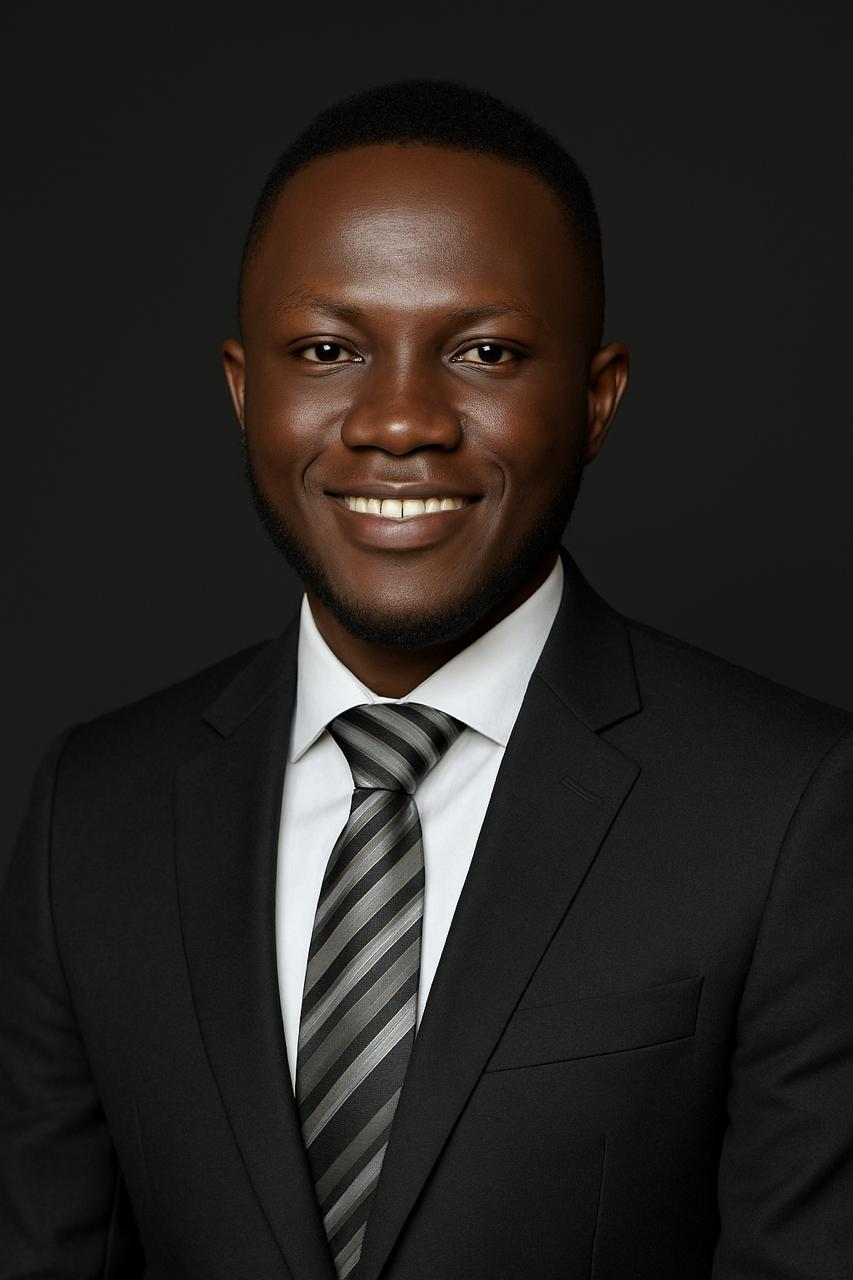
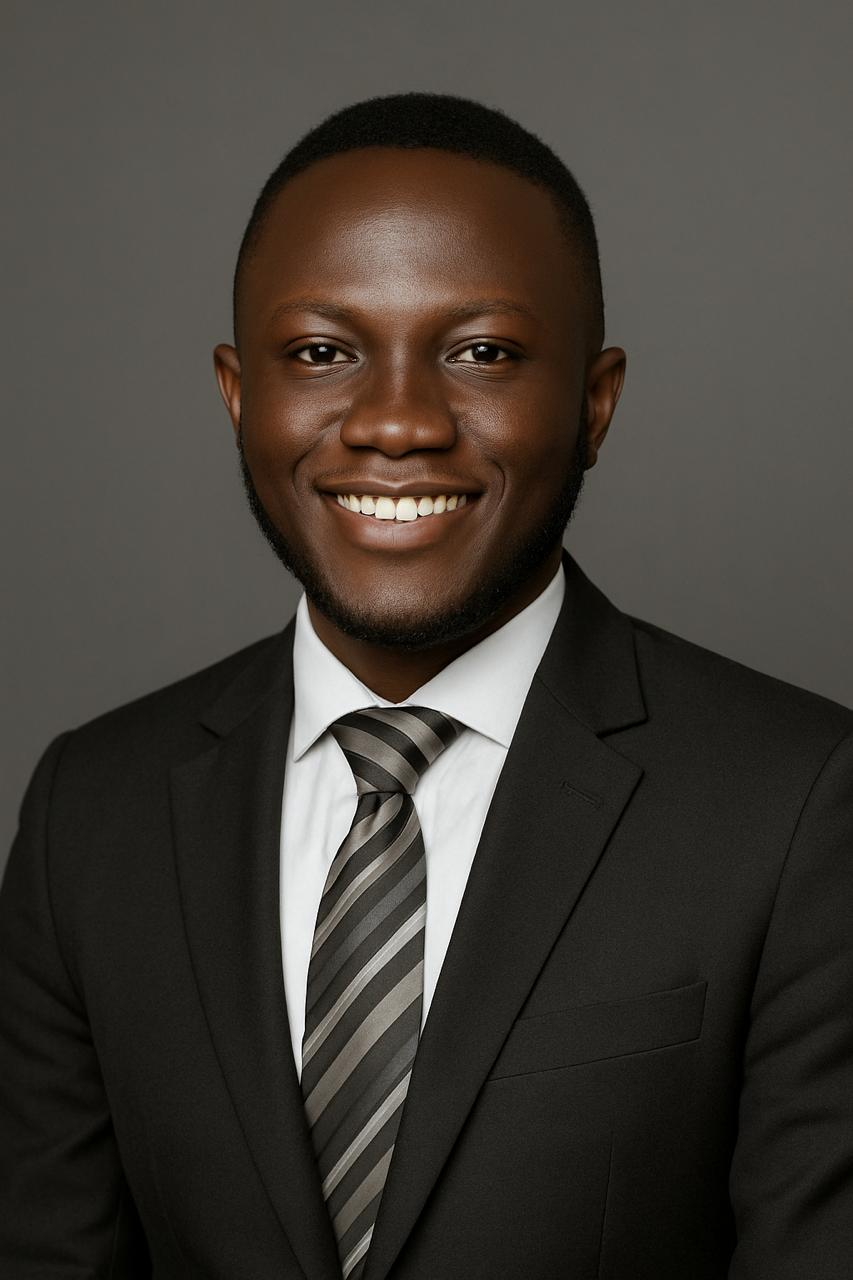
refactor: updated teams

diff --git a/src/lib/constants.ts b/src/lib/constants.ts
@@ -80,18 +80,6 @@ export const team = [
       "As Co-Founder and CEO of InfiniCity Labs, Andrews Danyo shapes the company's vision for safer, smarter mobility. He directs strategy, investment, and product roadmaps while mentoring a cross-functional team of engineers and data scientists who convert cutting-edge research in computer vision and machine reasoning into deployable tools for cities and transport agencies. Under his guidance, InfiniCity's platforms deliver real-time insights on traffic flow, infrastructure health, and road-user behavior, thereby empowering clients to move from reactive traffic management to proactive, data-driven decision-making.",
       "Andrews earned a bachelor's degree in Civil Engineering and a master's degree in Construction Management, both from Kwame Nkrumah University of Science and Technology, as well as a master's degree in Artificial Intelligence and Data Science from the University of Hull in the UK.",
     ],
-    // image: "",
-    education: [
-      "M.S. Artificial Intelligence & Data Science - University of Hull, UK",
-      "M.S. Construction Management - KNUST",
-      "B.S. Civil Engineering - KNUST",
-    ],
-    expertise: [
-      "Strategic Leadership",
-      "Computer Vision",
-      "Traffic Management",
-      "AI Product Development",
-    ],
   },
   {
     id: "Armstrong",
@@ -103,16 +91,6 @@ export const team = [
       "As President of InfiniCity Labs, Armstrong oversees the company's strategic and financial performance, guiding research, product development, and market expansion across all InfiniCity entities.",
       "For more than eight years, Armstrong has driven innovation in intelligent transportation systems, delivering computer-vision- and machine-reasoning-based products that transform mobility analytics and traffic management. Widely regarded as a thought leader in transportation AI, he steers InfiniCity Labs' strategic direction and corporate growth with a deep understanding of industry trends.",
       "Armstrong holds a Ph.D. in Transportation Engineering and has led research programs in both academic and industrial settings throughout North America and West Africa. Before co-founding InfiniCity Labs, he served as a transportation data scientist, architecting AI solutions that enhance roadway safety and operational efficiency.",
-    ],
-    education: [
-      "Ph.D. Transportation Engineering",
-      "Research Programs - North America & West Africa",
-    ],
-    expertise: [
-      "Transportation AI",
-      "Strategic Planning",
-      "Research Leadership",
-      "Market Expansion",
     ],
   },
   {
@@ -142,21 +120,12 @@ export const team = [
     id: "Blessing",
     name: "Blessing Agyei Kyem",
     href: "/team#blessing",
-    image: "/blessing.jpeg",
+    image: "/blessing.png",
     position: "Chief Technology Officer",
     bio: [
-      "As Chief Technology Officer at InfiniCity Labs, Blessing Agyei Kyem leads the technical vision and architecture of our cutting-edge AI platforms. With deep expertise in software engineering and system design, he oversees the development of scalable solutions that power our traffic management and infrastructure monitoring systems.",
-      "Blessing brings extensive experience in building enterprise-grade technology solutions, with a focus on cloud architecture, machine learning infrastructure, and real-time data processing systems. His leadership ensures that InfiniCity's technology stack remains at the forefront of innovation while maintaining the reliability and performance our clients depend on.",
-    ],
-    education: [
-      "Advanced Software Engineering",
-      "Cloud Architecture & Systems Design",
-    ],
-    expertise: [
-      "Software Architecture",
-      "Cloud Systems",
-      "ML Infrastructure",
-      "Technical Leadership",
+      "Blessing Agyei Kyem is the Chief Technology Officer at InfiniCity Labs, where he leads the development of advanced AI systems for intelligent transportation and infrastructure management. He oversees the design and deployment of real-time computer vision and multi-modal analytics platforms used for traffic monitoring, pavement condition assessment, and urban mobility insights. His work ensures that InfiniCity’s products are both scalable and cutting-edge, with a focus on performance, interpretability, and deployment efficiency.",
+      "Blessing’s expertise spans large language models including vision-language models, computer vision, and self-supervised learning. His recent work explores multi-modal understanding, cross-modal retrieval, and LLM-driven reasoning for traffic safety and infrastructure assessment. He has led engineering teams on projects involving road defect segmentation and vehicle behavior analysis. In addition to his technical leadership, he collaborates with academic researchers and transportation agencies to align InfiniCity’s innovation pipeline with real-world impact.",
+      "Blessing earned a bachelor’s degree in Civil Engineering from Kwame Nkrumah University of Science and Technology and is currently pursuing a Ph.D. in Transportation Engineering at North Dakota State University, where his research focuses on multi-modal AI and its applications in Transportation and Pavement.",
     ],
   },
   {
@@ -166,18 +135,9 @@ export const team = [
     image: "/joshua.jpeg",
     position: "Chief Research Scientist",
     bio: [
-      "Joshua Asamoah serves as Chief Research Scientist at InfiniCity Labs, where he leads breakthrough research in computer vision, machine learning, and intelligent transportation systems. His work focuses on developing novel algorithms that enable real-time analysis of traffic patterns, infrastructure conditions, and safety metrics.",
-      "With a strong background in applied research and academic excellence, Joshua has published extensively in top-tier conferences and journals. His research contributions have directly influenced the development of InfiniCity's core AI technologies, particularly in the areas of predictive analytics and automated decision-making systems for smart cities.",
-    ],
-    education: [
-      "Ph.D. Computer Science & AI",
-      "Research Publications in Top-Tier Venues",
-    ],
-    expertise: [
-      "Computer Vision",
-      "Machine Learning Research",
-      "Predictive Analytics",
-      "Smart City Technologies",
+      "Joshua Kofi Asamoah serves as the Chief Research Scientist at InfiniCity Labs, where he leads cutting-edge research in computer vision and AI for smart mobility systems. His work focuses on designing scalable, real-time models for vehicle tracking, behavior understanding, and multi-modal traffic analytics that directly support the company’s mission of building intelligent transportation infrastructure.",
+      "Currently a Ph.D. candidate in Transportation Engineering at North Dakota State University, Joshua conducts research at the intersection of deep learning, mobility data, and urban systems. His recent efforts span multi-camera tracking, spatio-temporal graph modeling, and natural-language vehicle retrieval, with applications in automated traffic monitoring and public safety.",
+      "With a growing portfolio of academic and industry collaborations across United States of America and West Africa, Joshua brings a strong research foundation and a results-driven mindset to InfiniCity’s innovation pipeline. His contributions have been recognized in competitive peer-reviewed venues in transportation and computer vision.",
     ],
   },
   {
@@ -188,16 +148,6 @@ export const team = [
     bio: [
       "Christian Shardey serves as Chief Solutions Architect at InfiniCity Labs, where he designs and implements comprehensive technology solutions that bridge the gap between cutting-edge research and practical deployment. He specializes in creating scalable architectures that can handle the complex demands of modern traffic management and infrastructure monitoring.",
       "With extensive experience in enterprise solution design and system integration, Christian ensures that InfiniCity's products seamlessly integrate with existing city infrastructure and transportation systems. His expertise in both technical architecture and client engagement makes him instrumental in delivering solutions that meet real-world operational requirements.",
-    ],
-    education: [
-      "Enterprise Architecture & Systems Integration",
-      "Advanced Solution Design",
-    ],
-    expertise: [
-      "Solution Architecture",
-      "System Integration",
-      "Enterprise Design",
-      "Client Solutions",
     ],
   },
 ];

diff --git a/src/app/team/components/members.tsx b/src/app/team/components/members.tsx
@@ -1,13 +1,6 @@
 import { Button } from "@/components/ui/button";
-import { Card, CardContent } from "@/components/ui/card";
 import { team } from "@/lib/constants";
-import {
-  GraduationCap,
-  Award,
-  Mail,
-  Linkedin,
-  ExternalLink,
-} from "lucide-react";
+import { Mail, Linkedin, ExternalLink } from "lucide-react";
 import React from "react";
 
 const Members = () => {
@@ -23,7 +16,7 @@ const Members = () => {
         >
           <div className="container mx-auto max-w-6xl relative z-10">
             <div
-              className={`grid grid-cols-1 lg:grid-cols-5 gap-12 items-start ${
+              className={`grid grid-cols-1 lg:grid-cols-6 gap-12 items-start ${
                 index % 2 === 1 ? "lg:grid-flow-col-dense" : ""
               }`}
             >
@@ -39,7 +32,7 @@ const Members = () => {
                       <img
                         src={member.image || "/user.jpg"}
                         alt={member.name}
-                        className="w-full h-full min-h-[600px] object-cover rounded-none"
+                        className="w-full h-80 object-cover object-top rounded-none"
                         loading="lazy"
                       />
                       <div className="absolute inset-0 bg-gradient-to-t from-[#0b243a]/20 to-transparent rounded-none"></div>
@@ -50,7 +43,7 @@ const Members = () => {
 
               {/* Content Column - With Social Links */}
               <div
-                className={`lg:col-span-3 space-y-8 ${
+                className={`lg:col-span-4 space-y-8 ${
                   index % 2 === 1 ? "lg:order-1" : ""
                 }`}
               >
@@ -78,59 +71,8 @@ const Members = () => {
                   ))}
                 </div>
 
-                {/* Education & Expertise - Side by side */}
-                <div className="flex  gap-4">
-                  {/* Education */}
-                  <Card className="border-neon/20 hover:border-neon/40 transition-colors flex-1 shadow-none rounded-none">
-                    <CardContent className="p-4 py-0">
-                      <div className="flex items-center mb-3">
-                        <div className="w-8 h-8 bg-neon rounded-none flex items-center justify-center mr-2">
-                          <GraduationCap className="w-4 h-4 text-[#0b243a]" />
-                        </div>
-                        <h4 className="text-sm font-semibold text-[#0b243a]">
-                          Education
-                        </h4>
-                      </div>
-                      <div className="space-y-2">
-                        {member.education?.map((edu, idx) => (
-                          <div key={idx} className="flex items-start">
-                            <div className="w-1 h-1 bg-neon rounded-full mr-2 mt-2 flex-shrink-0"></div>
-                            <span className="text-xs text-gray-700 leading-relaxed">
-                              {edu}
-                            </span>
-                          </div>
-                        ))}
-                      </div>
-                    </CardContent>
-                  </Card>
-
-                  {/* Expertise */}
-                  <Card className="border-neon/20 hover:border-neon/40 transition-colors flex-1 shadow-none rounded-none">
-                    <CardContent className="p-4 py-0">
-                      <div className="flex items-center mb-3">
-                        <div className="w-8 h-8 bg-[#0b243a] rounded-none flex items-center justify-center mr-2">
-                          <Award className="w-4 h-4 text-neon" />
-                        </div>
-                        <h4 className="text-sm font-semibold text-[#0b243a]">
-                          Expertise
-                        </h4>
-                      </div>
-                      <div className="space-y-2">
-                        {member.expertise?.map((skill, idx) => (
-                          <div key={idx} className="flex items-center">
-                            <div className="w-1 h-1 bg-[#0b243a] rounded-full mr-2 flex-shrink-0"></div>
-                            <span className="text-xs text-gray-700 font-medium">
-                              {skill}
-                            </span>
-                          </div>
-                        ))}
-                      </div>
-                    </CardContent>
-                  </Card>
-                </div>
-
                 {/* Social Links - Moved to content side */}
-                <div className="flex flex-wrap gap-3 pt-6 border-t border-gray-200">
+                <div className="flex flex-wrap gap-3 pt-6">
                   <Button className="bg-neon hover:bg-[#20d4a0] text-[#0b243a] font-semibold rounded-none">
                     <Mail className="w-4 h-4 mr-2" />
                     Mail
